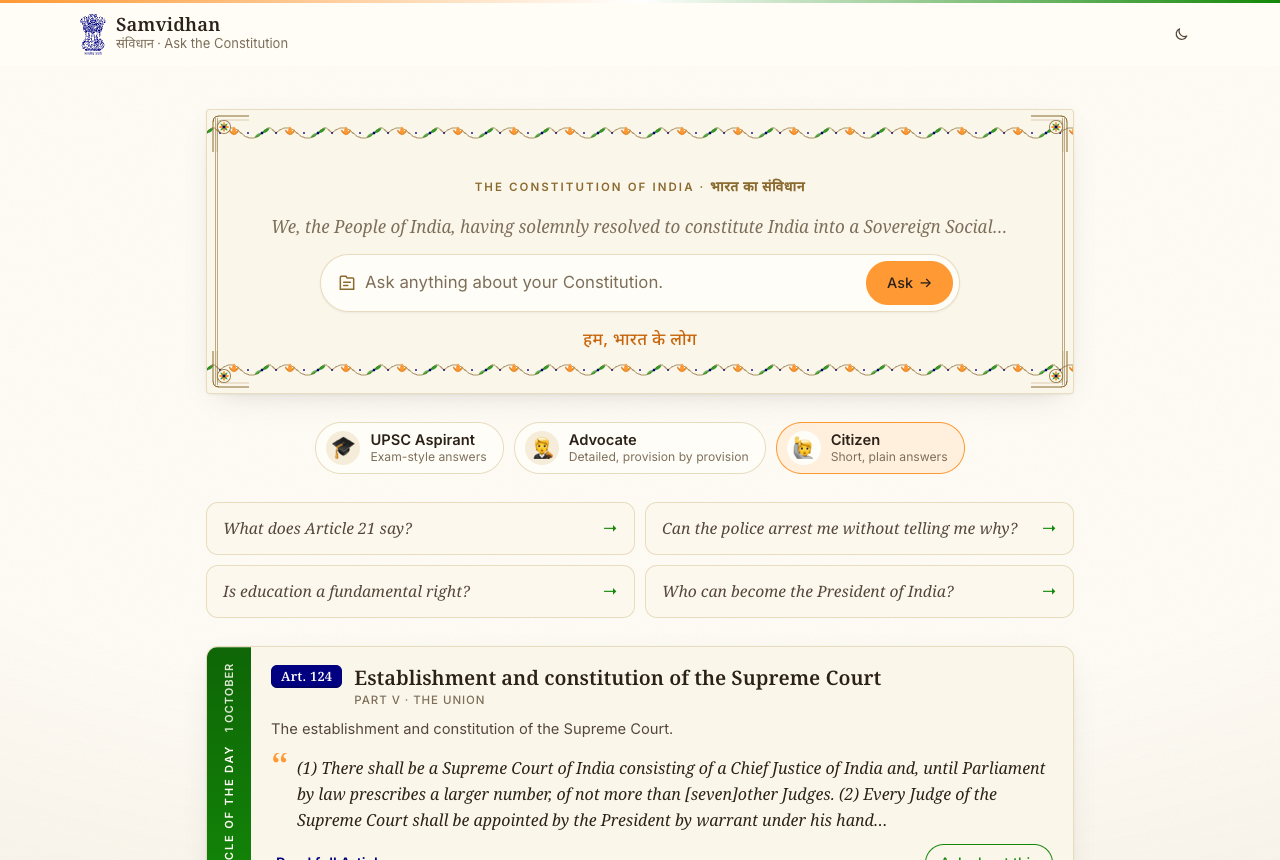
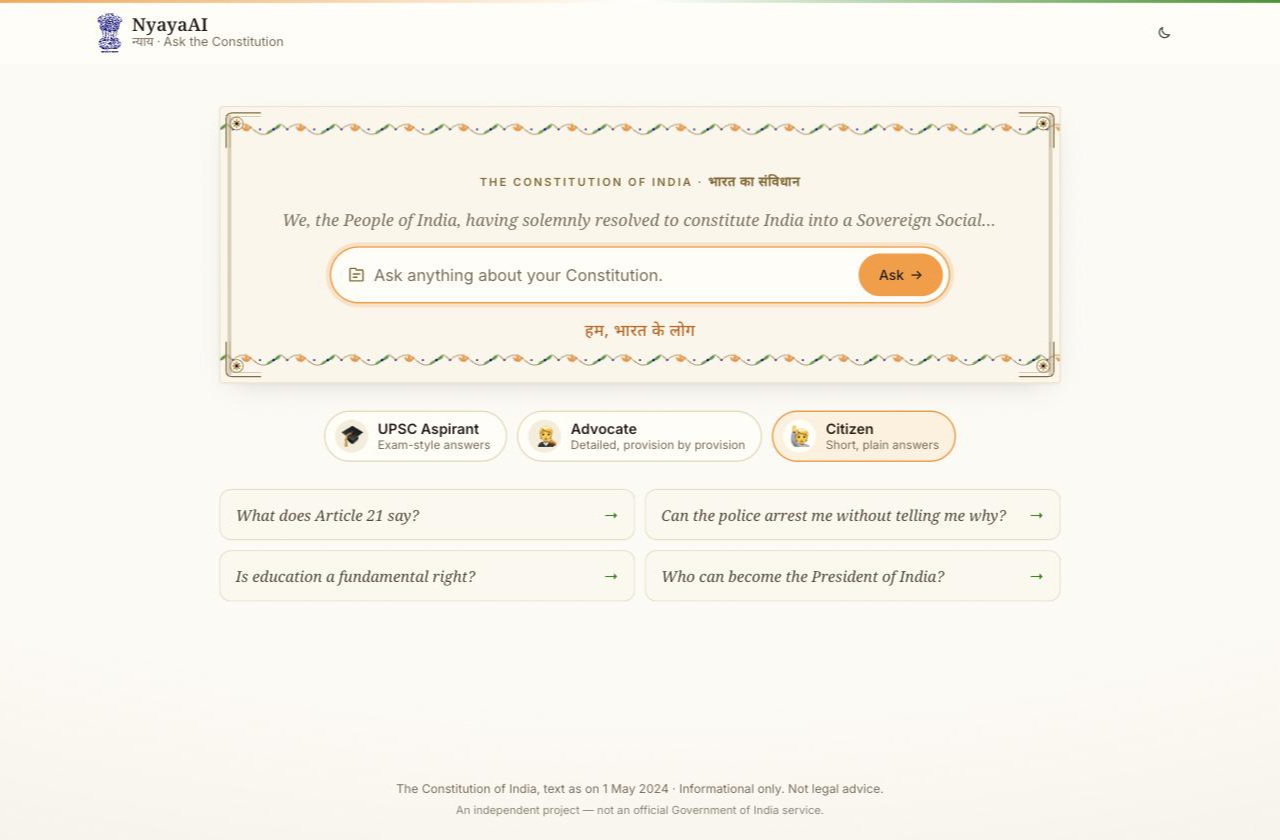
feat(ui): rename to NyayaAI, drop Article of the Day, fix home link
- Header brand, page title and aria label say "NyayaAI" (subtitle
  "न्याय · Ask the Constitution").
- Remove the Article of the Day card (markup, CSS, JS and its data file).
- The brand link reloaded the page, which restored the stored session and
  showed the same chat again. A plain click now does what New chat does;
  modified clicks keep the normal link.

UI spec, README text and the landing screenshot are updated.

diff --git a/ui/index.html b/ui/index.html
@@ -3,7 +3,7 @@
 <head>
   <meta charset="utf-8">
   <meta name="viewport" content="width=device-width, initial-scale=1, viewport-fit=cover">
-  <title>Samvidhan · Ask the Constitution</title>
+  <title>NyayaAI · Ask the Constitution</title>
   <meta name="description" content="Ask anything about the Constitution of India. Answers come only from its text, with Article citations.">
   <meta name="theme-color" content="#FFFDF7" media="(prefers-color-scheme: light)">
   <meta name="theme-color" content="#0E1330" media="(prefers-color-scheme: dark)">
@@ -24,11 +24,11 @@
   <a class="skip-link" href="#main">Skip to content</a>
 
   <header class="topbar">
-    <a class="brand" href="./" aria-label="Samvidhan, home">
+    <a class="brand" href="./" aria-label="NyayaAI, home">
       <span class="emblem" aria-hidden="true"></span>
       <span class="brand-text">
-        <span class="brand-name">Samvidhan</span>
-        <span class="brand-sub" lang="hi">संविधान · <span lang="en">Ask the Constitution</span></span>
+        <span class="brand-name">NyayaAI</span>
+        <span class="brand-sub" lang="hi">न्याय · <span lang="en">Ask the Constitution</span></span>
       </span>
     </a>
     <nav class="top-actions" aria-label="Chat">
@@ -73,25 +73,6 @@
 
       <div class="personas" role="radiogroup" aria-label="I am a…" id="personas"></div>
       <div class="starters" id="starters" aria-label="Starter questions"></div>
-
-      <article class="aotd" id="aotd" hidden aria-labelledby="aotd-title">
-        <div class="aotd-ribbon"><span>Article of the Day</span><time id="aotd-date"></time></div>
-        <div class="aotd-body">
-          <div class="aotd-head">
-            <span class="badge" id="aotd-badge"></span>
-            <div>
-              <h2 class="aotd-title" id="aotd-title"></h2>
-              <p class="crumb" id="aotd-crumb"></p>
-            </div>
-          </div>
-          <p class="aotd-hook" id="aotd-hook"></p>
-          <blockquote class="excerpt" id="aotd-excerpt"></blockquote>
-          <div class="aotd-actions">
-            <button type="button" class="btn link" id="aotd-read">Read full Article <span aria-hidden="true">›</span></button>
-            <button type="button" class="btn secondary" id="aotd-ask">Ask about this</button>
-          </div>
-        </div>
-      </article>
     </section>
 
     <!-- Chat -->

diff --git a/ui/js/landing.js b/ui/js/landing.js
@@ -1,7 +1,5 @@
-// Landing: the Preamble types itself out and becomes the search box; persona chips; Article of the Day.
+// Landing: the Preamble types itself out and becomes the search box; persona chips.
 import { $, el, prefersReducedMotion } from "./dom.js";
-import { breadcrumb, excerptOf, getArticle, openArticle } from "./drawer.js";
-import { labelFor } from "./render.js";
 import { store } from "./store.js";
 
 // The drop cap supplies the "W".
@@ -108,33 +106,6 @@ async function initPersonas({ ask, setStyle }) {
   }
 }
 
-// ---- Article of the Day ----
-
-function dayOfYear(date = new Date()) {
-  return Math.floor((date - new Date(date.getFullYear(), 0, 0)) / 86_400_000);
-}
-
-async function initArticleOfTheDay({ ask }) {
-  try {
-    const { articles } = await (await fetch("data/articles-of-the-day.json")).json();
-    const pick = articles[dayOfYear() % articles.length];
-    const article = await getArticle(pick.ref);
-    if (!article) return;
-    const label = labelFor(article.ref);
-    $("#aotd-date").textContent = new Date().toLocaleDateString("en-IN", { day: "numeric", month: "long" });
-    $("#aotd-badge").textContent = label;
-    $("#aotd-title").textContent = article.title || label;
-    $("#aotd-crumb").textContent = breadcrumb(article);
-    $("#aotd-hook").textContent = pick.hook;
-    $("#aotd-excerpt").textContent = excerptOf(article, 280);
-    $("#aotd-read").addEventListener("click", () => openArticle(article.ref));
-    $("#aotd-ask").addEventListener("click", () => ask(`Explain ${label}${article.title ? ` (${article.title})` : ""} in simple words.`));
-    $("#aotd").hidden = false;
-  } catch {
-    /* the card simply stays hidden */
-  }
-}
-
 /**
  * `ask(question)` sends a question (switches to chat); `setStyle(style)` moves the style toggle.
  * `intro` plays the typewriter (first visit of this page load); otherwise the search box shows at once.
@@ -152,7 +123,6 @@ export function initLanding({ ask, setStyle, intro = true }) {
   if (intro && !prefersReducedMotion()) typewriter();
   else becomeSearchBox({ focus: false });
   initPersonas({ ask, setStyle });
-  initArticleOfTheDay({ ask });
 }
 
 export function showLanding() {

diff --git a/ui/css/app.css b/ui/css/app.css
@@ -315,31 +315,6 @@ body.in-chat .composer-wrap { background: linear-gradient(to top, var(--flag-bot
 .starter:hover .arrow { transform: translateX(3px); }
 @keyframes rise { from { opacity: 0; transform: translateY(6px); } }
 
-/* Article of the Day */
-.aotd {
-  display: grid; grid-template-columns: 44px 1fr;
-  border: 1px solid var(--paper-edge); border-radius: var(--radius);
-  background: var(--paper-2);
-  box-shadow: var(--shadow);
-  overflow: hidden;
-  animation: rise .5s var(--ease) both .1s;
-}
-.aotd-ribbon {
-  writing-mode: vertical-rl; transform: rotate(180deg);
-  display: flex; align-items: center; justify-content: space-between; gap: 12px;
-  padding: 16px 0;
-  background: linear-gradient(180deg, var(--green), color-mix(in srgb, var(--green) 75%, #000));
-  color: #FFFDF7;
-  font: 600 .7rem/44px var(--font-sans); letter-spacing: .16em; text-transform: uppercase;
-  text-align: center;
-}
-.aotd-ribbon time { opacity: .85; letter-spacing: .08em; }
-.aotd-body { padding: 18px 20px 14px; min-width: 0; }
-.aotd-head { display: flex; gap: 12px; align-items: flex-start; }
-.aotd-title { margin: 0; font: 600 var(--step-2)/1.3 var(--font-serif); }
-.aotd-hook { margin: 10px 0 0; font-size: .92rem; color: var(--ink-soft); }
-.aotd-actions { display: flex; flex-wrap: wrap; justify-content: space-between; align-items: center; gap: 8px; margin-top: 10px; }
-
 /* Shared: badges, breadcrumbs, excerpts */
 .badge {
   flex: none;
@@ -643,8 +618,6 @@ body.in-chat .footer { display: none; }
   .ask-icon { display: none; }
   .ask .btn.primary { padding: 0 14px; }
   .skip { right: 50%; transform: translateX(50%); bottom: 34px; }
-  .aotd { grid-template-columns: 1fr; }
-  .aotd-ribbon { writing-mode: horizontal-tb; transform: none; padding: 0 16px; line-height: 32px; }
   .persona { padding-right: 12px; }
   .persona .p-hint { display: none; }
   .msg-bot { grid-template-columns: minmax(0, 1fr); }

diff --git a/ui/js/app.js b/ui/js/app.js
@@ -1,6 +1,6 @@
 // Bootstrap: theme, edition date, drawer, chat, landing, history restore, keyboard shortcuts.
 import { api } from "./api.js";
-import { ask, initChat, restore, setStyle } from "./chat.js";
+import { ask, initChat, newChat, restore, setStyle } from "./chat.js";
 import { $ } from "./dom.js";
 import { initDrawer } from "./drawer.js";
 import { initLanding } from "./landing.js";
@@ -46,9 +46,20 @@ function initShortcuts() {
   window.addEventListener("scroll", () => bar.classList.toggle("scrolled", window.scrollY > 4), { passive: true });
 }
 
+// The brand link would reload the page and restore the saved session; go to a fresh landing instead.
+// Modified clicks (new tab, etc.) keep the plain link.
+function initHomeLink() {
+  $(".brand").addEventListener("click", (event) => {
+    if (event.button !== 0 || event.metaKey || event.ctrlKey || event.shiftKey || event.altKey) return;
+    event.preventDefault();
+    newChat();
+  });
+}
+
 async function main() {
   initTheme();
   initShortcuts();
+  initHomeLink();
   initDrawer({ ask });
   initChat();
   initEdition();

diff --git a/docs/specs/ui.md b/docs/specs/ui.md
@@ -13,7 +13,7 @@ citations, open the full Article, follow up, and give feedback.
 
 ## 2. Scope
 - In scope:
-  - Landing screen: Preamble typewriter that becomes the search box, persona chips, Article of the Day.
+  - Landing screen: Preamble typewriter that becomes the search box, persona chips. (Article of the Day was removed on 2026-10-01.)
   - Chat: streaming answers, citation pills and cards, "Read full Article" drawer, Auto/Brief/Detailed/Exam
     toggle, 👍/👎 with an optional comment, New chat and Clear, history reload, error states.
   - Debug panel when the API runs with `DEBUG_UI=true`.
@@ -69,11 +69,7 @@ Static files in `ui/`: `index.html`, `css/`, `js/` (ES modules), `assets/` (SVG)
 3. Persona chips: 🎓 UPSC Aspirant (default style Exam) · 🧑⚖ Advocate (Detailed) · 🙋 Citizen (Brief).
    Picking one sets the style toggle and shows that persona's four starter questions (`ui/data/personas.json`).
    The choice is remembered in `localStorage`.
-4. **Article of the Day** card. The ref comes from `ui/data/articles-of-the-day.json` at index
-   `dayOfYear % n`, so it's the same for everyone on a given day. The card shows a navy badge, title, Part
-   breadcrumb, the first ~280 characters in serif from `GET /v1/articles/{ref}`, and two buttons: "Read full
-   Article" (opens the drawer) and "Ask about this" (sends "Explain {label} in simple words.").
-5. Footer: the edition date from `GET /v1/meta` ("Text as on …") and "Informational only. Not legal advice."
+4. Footer: the edition date from `GET /v1/meta` ("Text as on …") and "Informational only. Not legal advice."
 
 ### 3.4 Chat
 - **Sending.** `POST /v1/chat {session_id, message, stream: true, answer_style?}`.
@@ -108,6 +104,8 @@ Static files in `ui/`: `index.html`, `css/`, `js/` (ES modules), `assets/` (SVG)
   The buttons then show the chosen state. They're disabled for answers without a `message_id`.
 - **Session.**
   - "New chat" clears the thread and creates a fresh session on the next send.
+  - The header brand ("NyayaAI", subtitle "न्याय · Ask the Constitution") is the home link. A plain click does the
+    same as New chat; it must not reload, because a reload restores the stored session and shows the chat again.
   - "Clear" sends `DELETE /v1/sessions/{id}`, then does the same as New chat.
   - On load with a stored id, `GET /v1/sessions/{id}/messages` rebuilds the thread. Cards come from
     `cited_articles`, with labels made like `generation/citations.label`. A 404 means the session expired: start
@@ -134,7 +132,7 @@ Static files in `ui/`: `index.html`, `css/`, `js/` (ES modules), `assets/` (SVG)
 | `js/api.js` | fetch wrappers, `ApiError {code, message, retryAfter}` |
 | `js/sse.js` | `streamChat(body, handlers, signal)`: POST + incremental `event:`/`data:` parser |
 | `js/render.js` | `escapeHtml`, `renderAnswer(text)`, `parseCitationRefs`, `labelFor(ref)` |
-| `js/landing.js` | typewriter, personas, Article of the Day |
+| `js/landing.js` | typewriter, personas |
 | `js/chat.js` | thread state, send/stream, toggle, feedback, session lifecycle |
 | `js/drawer.js` | Article drawer and the shared article cache |
 | `js/debug.js` | debug panel |
@@ -149,7 +147,6 @@ to `done`. `CORS_ORIGINS` stays for UIs served from another origin; the default 
 |---------|-----------|
 | Google Fonts unreachable | System serif/sans fallbacks; layout unchanged |
 | `/v1/meta` fails | Footer omits the edition date |
-| Article of the Day ref 404s | Card hides |
 | Stream cut mid-answer (network) | The bubble keeps the partial text, marked "interrupted", with a retry button |
 | Stored session expired | Fresh session, no error shown |
 | `ui/` missing with `SERVE_UI=true` | App starts; the mount is skipped with a warning log |

diff --git a/README.md b/README.md
@@ -71,14 +71,14 @@ evaluation, failure handling, and Article-level source attribution.**
 
 <table>
 <tr>
-<td width="33%"><a href="docs/screenshots/ui-landing.png"><img src="docs/screenshots/ui-landing.png" width="100%" alt="Landing: Preamble typewriter turns into the search box, persona chips, starter questions, Article of the Day"></a><br/><sub><b>Landing</b> — Preamble → search box, personas, Article of the Day</sub></td>
+<td width="33%"><a href="docs/screenshots/ui-landing.png"><img src="docs/screenshots/ui-landing.png" width="100%" alt="Landing: Preamble typewriter turns into the search box, persona chips, starter questions"></a><br/><sub><b>Landing</b> — Preamble → search box, personas, Article of the Day</sub></td>
 <td width="33%"><a href="docs/screenshots/ui-drawer.png"><img src="docs/screenshots/ui-drawer.png" width="100%" alt="Drawer with the full text of Article 21, previous/next and Ask about this"></a><br/><sub><b>Read full Article</b> — drawer with prev / next</sub></td>
 <td width="33%"><a href="docs/screenshots/ui-night.png"><img src="docs/screenshots/ui-night.png" width="100%" alt="Night-reading dark theme of the chat view"></a><br/><sub><b>Night reading</b> — follows the OS or the toggle</sub></td>
 </tr>
 </table>
 
 - **Ask** — streamed answers with `Art. 21` pills and quoted citation cards; Auto / Brief / Detailed / Exam toggle.
-- **Explore** — personas (UPSC Aspirant · Advocate · Citizen) with starter questions; Article of the Day.
+- **Explore** — personas (UPSC Aspirant · Advocate · Citizen) with starter questions.
 - **Keep** — 👍 / 👎 with a comment; history restored on reload; New chat / Clear.
 - **Debug** — "Behind the answer" shows the route and scored chunks when `DEBUG_UI=true` (turn off when public).
 
